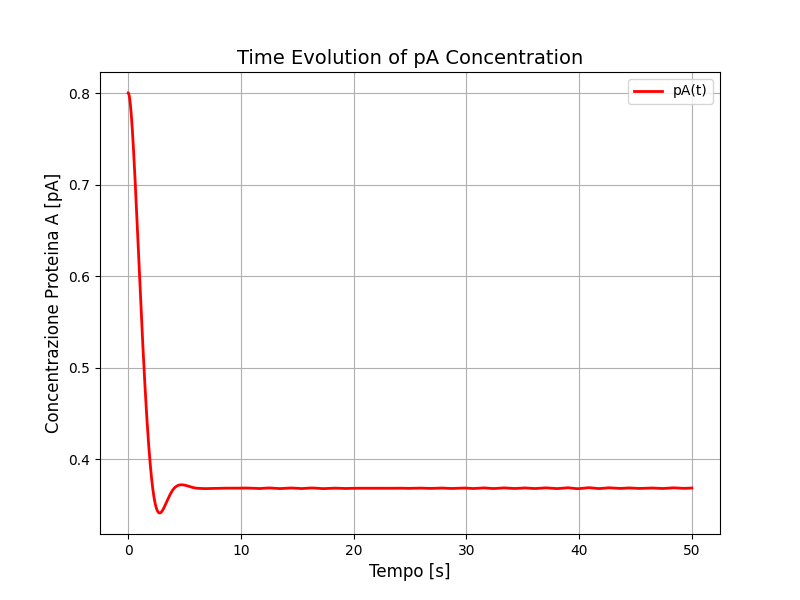
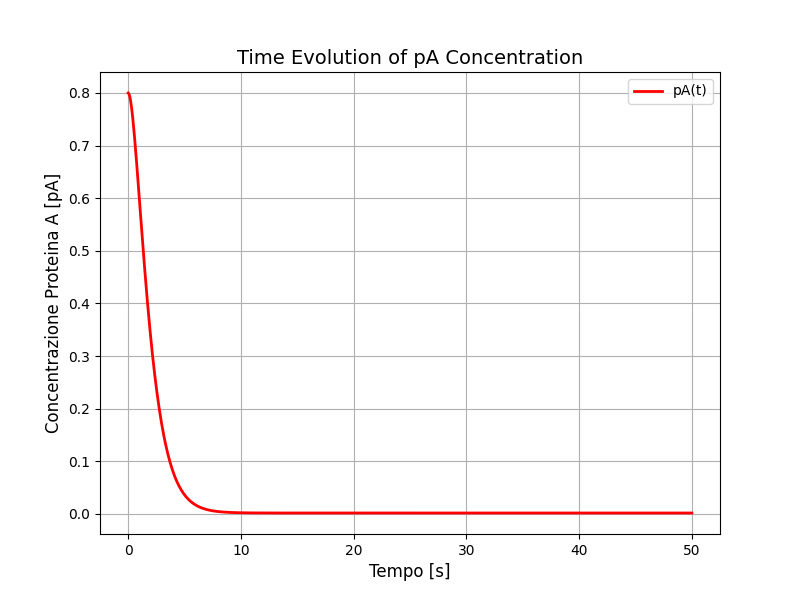
add new figures with multiple data

diff --git a/assignment2/main.py b/assignment2/main.py
@@ -1,6 +1,8 @@
 import numpy as np
 import matplotlib.pyplot as plt
 from scipy.integrate import solve_ivp
+from matplotlib.lines import Line2D
+
 
 np.random.seed(3)
 
@@ -45,7 +47,7 @@ def viterbi_algorithm(sequence, A, B, P):
 
     # Initialization step
     for s in range(n_states):
-        V[s, 0] = P[s] * B[s, get_letter_index(sequence[s])]
+        V[s, 0] = P[s] * B[s, get_letter_index(sequence[0])]
 
     # Recursion step
     for t in range(1, T):
@@ -56,7 +58,7 @@ def viterbi_algorithm(sequence, A, B, P):
                 prob = (
                     V[s_prev, t - 1]
                     * A[s_prev, s]
-                    * B[s, get_letter_index(sequence[s])]
+                    * B[s, get_letter_index(sequence[t])]
                 )
                 if prob > max_prob:
                     max_prob = prob
@@ -154,7 +156,7 @@ def patient_alpha_ode(t, y):
     return [dra_dt, drb_dt, dPa_dt, dPb_dt]
 
 
-t = np.linspace(0, 50, 5000)
+t = np.linspace(0, 50, 1000)
 y0 = [mRNA_a, mRNA_b, P_a, P_b]
 sol_alpha = solve_ivp(patient_alpha_ode, [0, 50], y0, t_eval=t)
 
@@ -220,9 +222,7 @@ def solve_sde_velo(dt, steps):
             du = (c[g] - current_beta[g] * u[g, i]) * dt + sigma_1[g] * dW1
             u[g, i + 1] = max(0, u[g, i] + du)
 
-            ds = (current_beta[g] * u[g, i] - gamma[g] * s[g, i]) * dt + sigma_2[
-                g
-            ] * dW2
+            ds = (current_beta[g] * u[g, i] - gamma[g] * s[g, i]) * dt + sigma_2[g] * dW2
             s[g, i + 1] = max(0, s[g, i] + ds)
 
             dp = (k_p[g] * s[g, i] - delta[g] * p[g, i]) * dt
@@ -231,7 +231,7 @@ def solve_sde_velo(dt, steps):
     return u, s, p, t
 
 
-u, s, p, t = solve_sde_velo(0.01, 5000)
+u, s, p, t = solve_sde_velo(0.01, 1000)
 
 plt.plot(p[0], p[1], label="Patient Beta", color="tab:red")
 plt.axvline(theta[0], color="gray", linestyle="--", label="Binding Threshold (θ)")
@@ -248,29 +248,58 @@ plt.annotate(
     "Final State", (p[0, -1], p[1, -1]), textcoords="offset points", xytext=(10, -10)
 )
 
+plt.savefig("A_vs_B_Phase")
 plt.show()
 
 
 n_runs = 10
-all_results = [solve_sde_velo(0.01, 5000) for _ in range(n_runs)]
+all_results = [solve_sde_velo(0.01, 1000) for _ in range(n_runs)]
 protein_runs = np.array([res[2] for res in all_results])
 mean_p = np.mean(protein_runs, axis=0)
 err_p = 1.96 * (np.std(protein_runs, axis=0) / np.sqrt(n_runs))
 
-plt.plot(t, mean_p[0], color="tab:blue", label="Protein A")
+plt.plot(t, mean_p[0], color="tab:blue")
 plt.fill_between(
     t, mean_p[0] - err_p[0], mean_p[0] + err_p[0], color="tab:blue", alpha=0.2
 )
+plt.plot(t, pA_alpha, color="tab:blue", linestyle="--")
 
-plt.plot(t, mean_p[1], color="tab:red", label="Protein B")
+plt.plot(t, mean_p[1], color="tab:red")
 plt.fill_between(
     t, mean_p[1] - err_p[1], mean_p[1] + err_p[1], color="tab:red", alpha=0.2
 )
+plt.plot(t, pB_alpha, color="tab:red", linestyle="--")
+
+
+species_handles = [
+    Line2D([0], [0], color="tab:blue", lw=2, label="Protein A"),
+    Line2D([0], [0], color="tab:red", lw=2, label="Protein B"),
+]
+model_handles = [
+    Line2D([0], [0], color="black", lw=2, linestyle="-", label="SDEVelo"),
+    Line2D([0], [0], color="black", lw=2, linestyle="--", label="ODE"),
+]
+
+ax = plt.gca()
+
+plt.subplots_adjust(right=0.78)
+
+leg_species = ax.legend(
+    handles=species_handles, title="Species",
+    loc="upper left", bbox_to_anchor=(1.02, 1.00), borderaxespad=0.0
+)
+ax.add_artist(leg_species)
+
+ax.legend(
+    handles=model_handles, title="Model",
+    loc="upper left", bbox_to_anchor=(1.02, 0.80), borderaxespad=0.0
+)
+
 
 plt.xlabel("Time [s]")
 plt.ylabel("Concentration [M]")
 
-plt.legend()
+plt.savefig("ODE_vs_SDE")
 plt.show()
 
 ### Task 3: Comparative Analysis & Diagnosis ###
